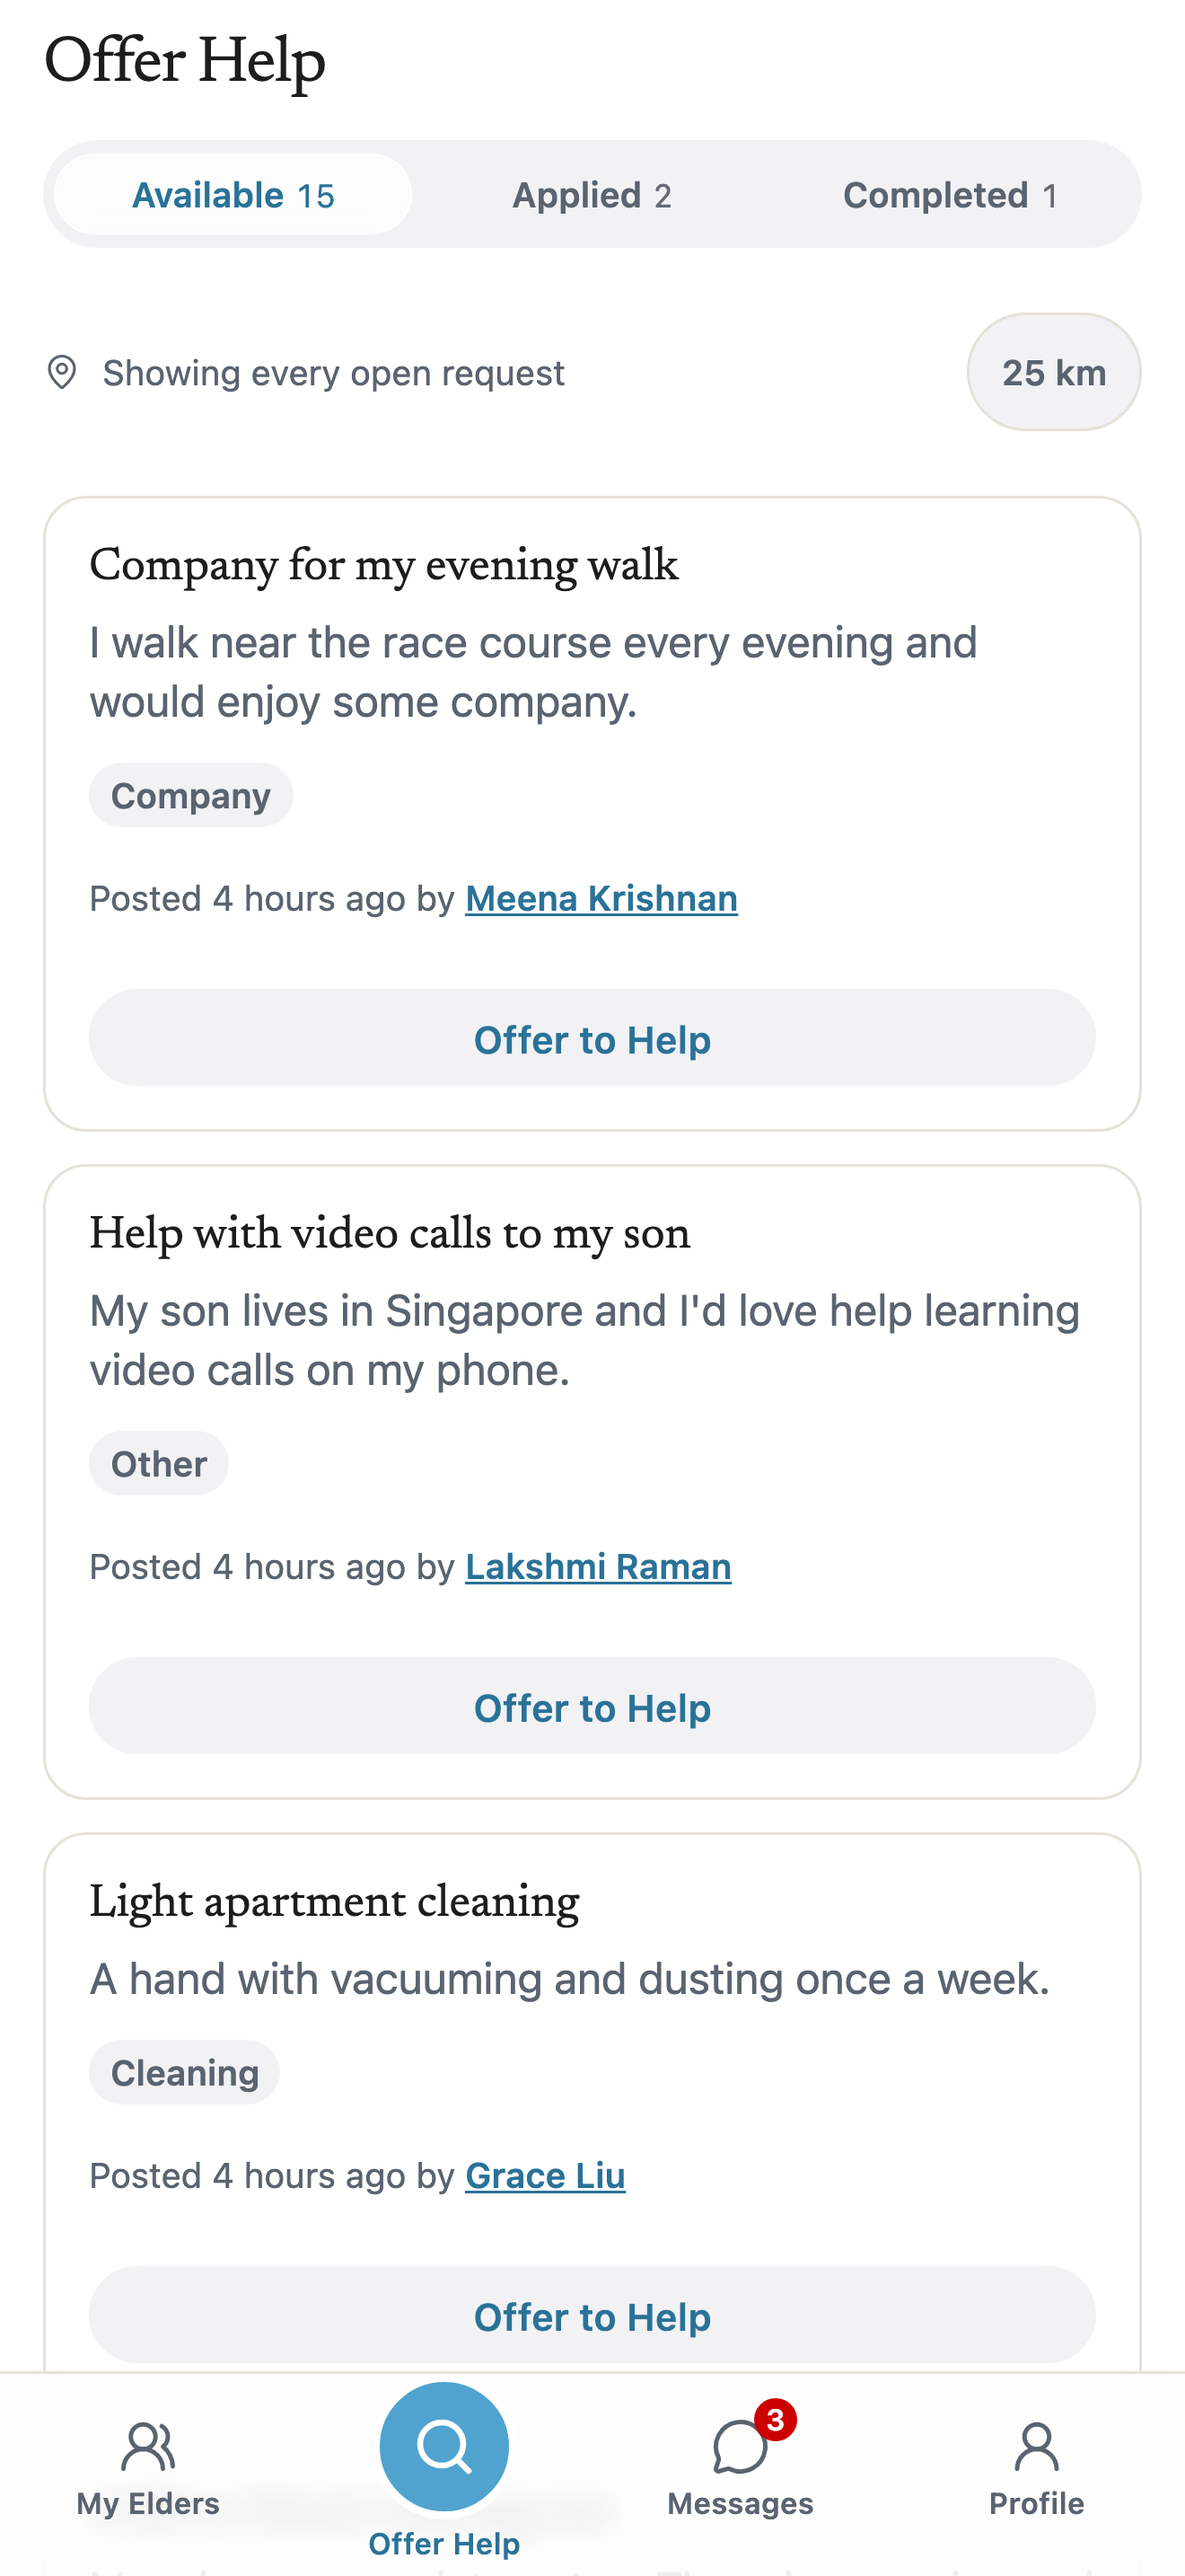
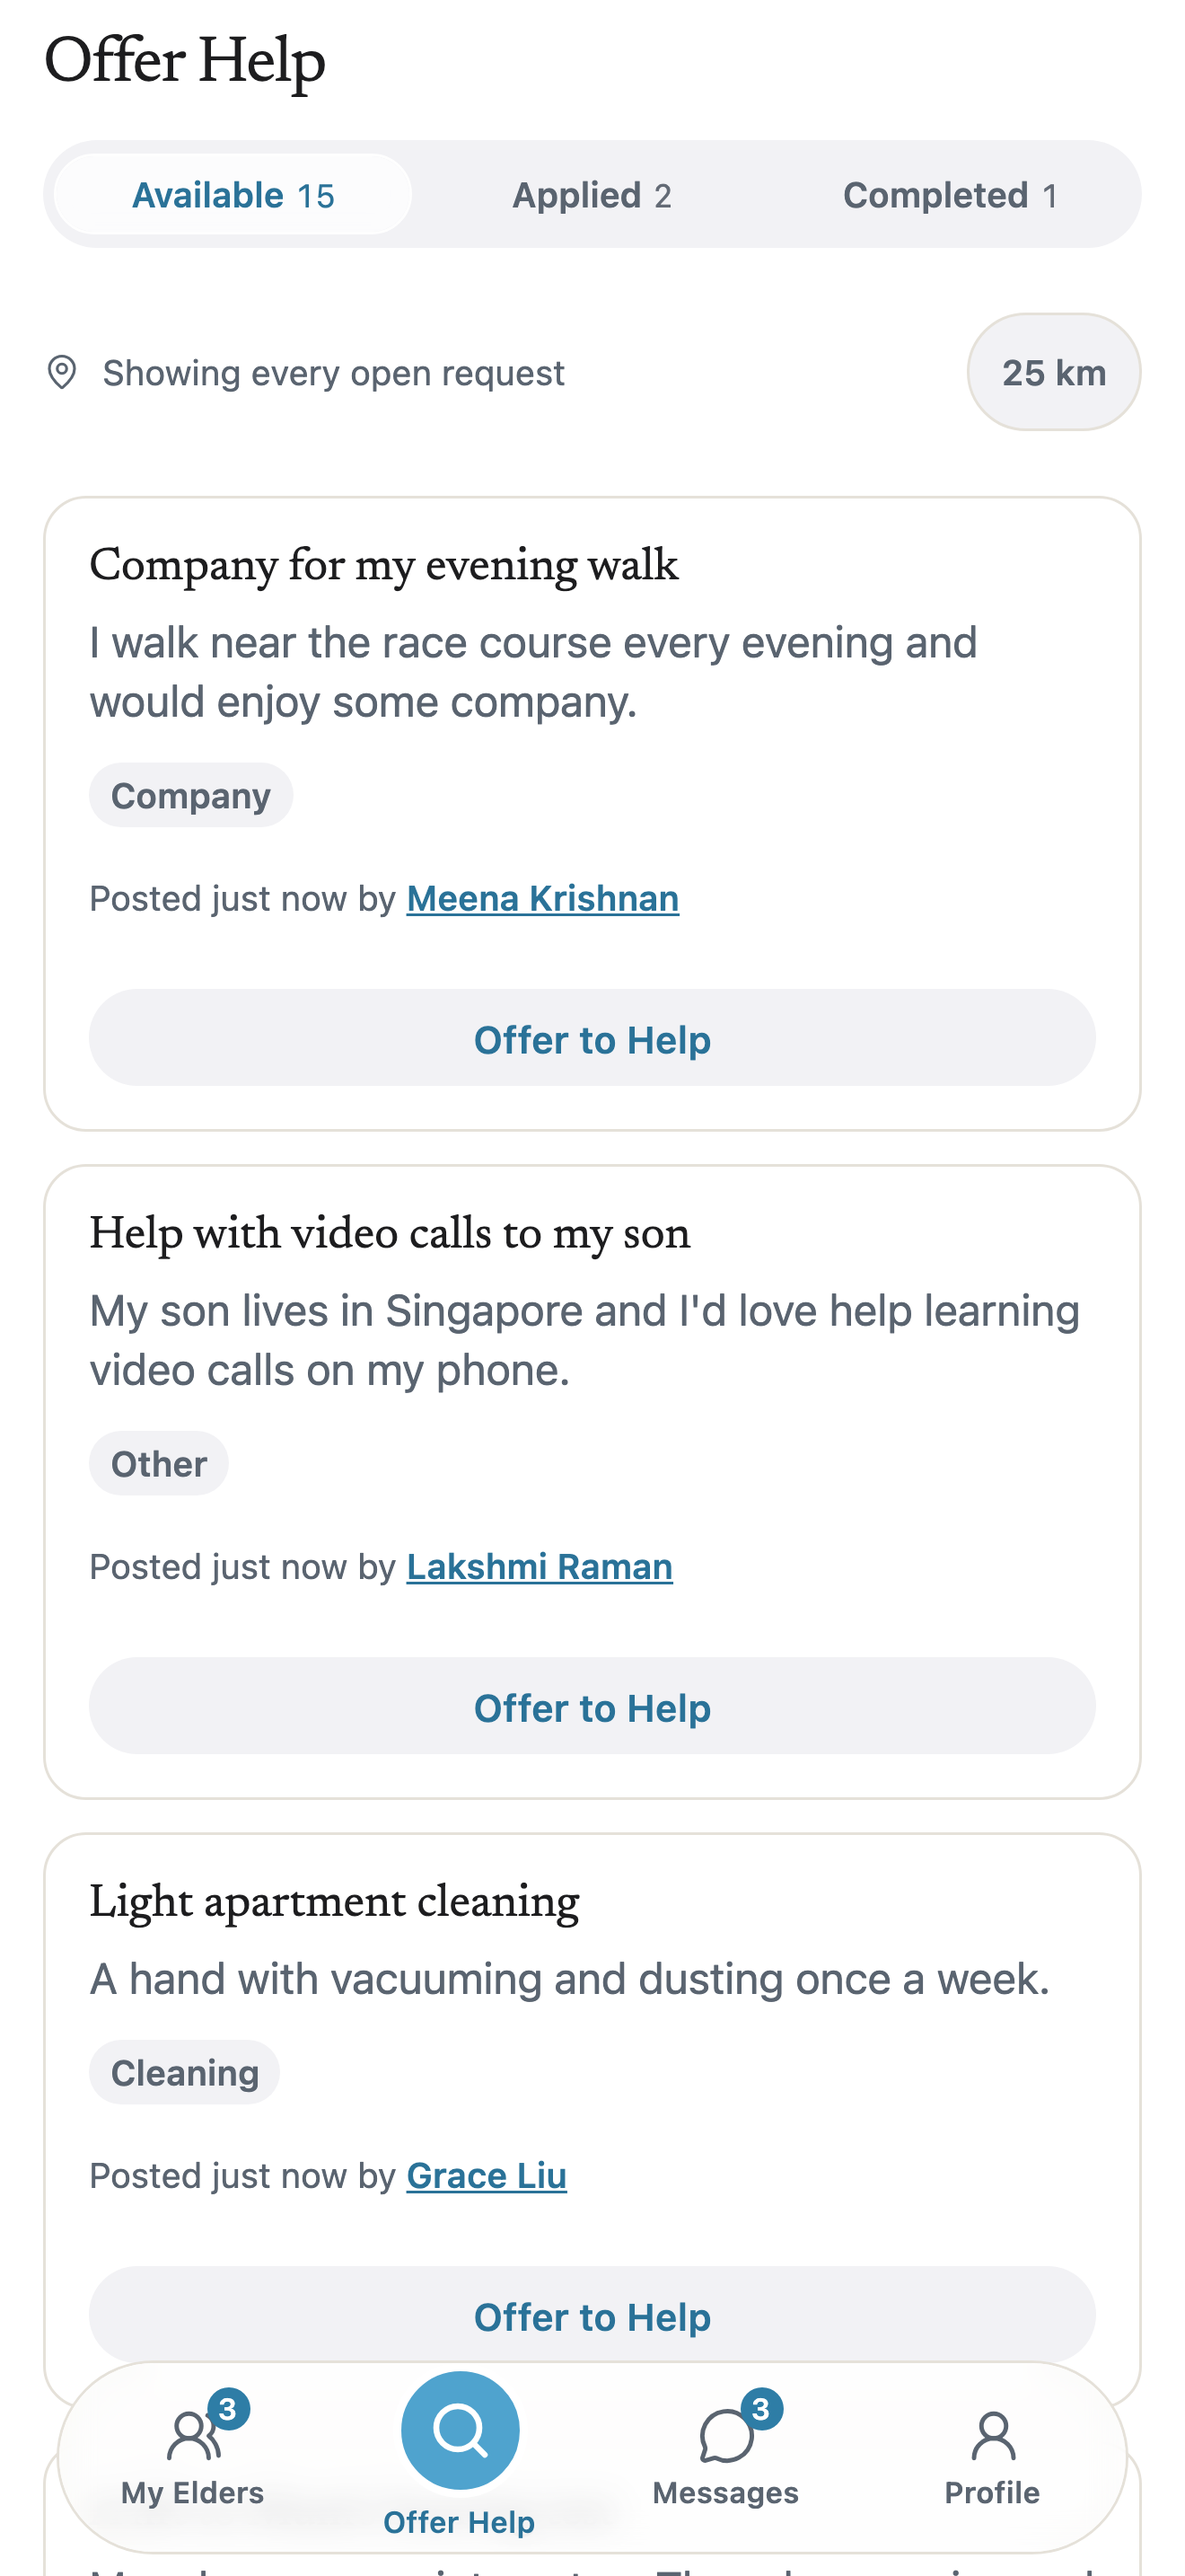
fix: [APS-03] - Re-capture the helper and family screenshots
Three shots re-taken against the shipped build: Offer Help and Trust Score from
the helper seat, the parent card from the family seat.

Only Offer Help had moved. Its tab bar was still the flat one with a red
Messages badge and no My Elders count, and every request line read "Posted 4
hours ago" where the seeder now says "Posted just now". The old frame is in
superseded/2026-08-29-pre-appstore-recapture/.

Trust Score and the family parent card came back byte-identical, md5
76b42efc73b7f1288bfe5f972c32c69d and 852b7496a86acb936ffc80f1395a2f75. Both are
pushed screens with a back arrow and no tab bar, so the tab-bar work never
reached them. Nothing was replaced, so nothing was superseded.

The helper split is in frame: 7 for the trust stages, 5 from their review, 3
for the profile, with a per-person breakdown for all three people the helper
helps. The family card reads "Checked in today" and that state was already
true, so nothing was staged to make the caption honest.

Trust Score still carries the sentence APS-07 is going to change. That slot
needs re-shooting and re-baking when APS-07 lands.

diff --git a/docs/store/screenshot-inventory.md b/docs/store/screenshot-inventory.md
@@ -377,3 +377,47 @@ Proof the band is gone: the re-shot `raw-02-checkin.png` and the 2026-08-22
 frame both put their first ink on device row 91, and the pixel difference
 between them is bounded to `(287, 91, 1038, 241)`, the greeting line and the
 date. The rest of the two frames is identical.
+
+
+### The helper and family shots, re-captured 2026-08-29 (APS-03)
+
+Same script, same pinned frame. Two of the three came back byte-identical to
+what was already on disk, which is a result and not churn: those frames were
+already the shipped UI.
+
+| File | Seat | Frame | Alpha | Bytes | Result |
+|---|---|---|---|---|---|
+| `raw-10-helper-offer-help.png` | helper | 1320 x 2868 | no | 281,338 | Replaced. The old frame carried the flat tab bar with a red Messages badge and no My Elders count. |
+| `raw-14-helper-trust-score.png` | helper | 1320 x 2868 | no | 319,857 | Byte-identical, md5 `76b42efc73b7f1288bfe5f972c32c69d`. Nothing superseded. |
+| `raw-16-family-parent-checked-in.png` | family | 1320 x 2868 | no | 266,767 | Byte-identical, md5 `852b7496a86acb936ffc80f1395a2f75`. Nothing superseded. |
+
+`raw-10` changed from device row 983 down: every request line moved from
+"Posted 4 hours ago by" to "Posted just now by" as the seeder reran, and the
+tab bar became the floating capsule with blue count badges. The screens behind
+`raw-14` and `raw-16` are pushed screens with a back arrow and no tab bar, so
+the tab-bar work never touched them.
+
+**The helper split is in frame.** `raw-14` reads "Each person you help can earn
+you up to 15 points: 7 for growing trust together, 5 from their review, and 3
+for your profile", then a per-person breakdown for each of the three people the
+helper helps: Grace Liu 15/15 with 7/7 trust stages, 5/5 review, 3/3 profile;
+David Chen 7/15 with 4/7, 0/5, 3/3; Rose Martin 4/15 with 1/7, 0/5, 3/3.
+
+**The family frame says "Checked in today", and it was already true.** The
+elder's own check-in screen read "Checked in for today, 7 days in a row" before
+any capture ran, so nothing was staged to make the caption honest.
+
+**Reaching the family parent card.** The route is
+`/family/parent/<elderId>`, and the elder id moves with the seed, so it is
+reached by walking there:
+`--route /home --wait "Margaret" --tap "Margaret" --tap "See Margaret"`. The
+parent row is a collapsible LinkRow, so the first tap opens it and the second
+takes the "See Margaret" chip inside
+(`src/components/family/FamilyHomePanel.jsx`). Tapping the name alone only
+expands the row, and a capture taken there is the family home, not the parent
+card.
+
+**Left for the owner.** `raw-14` carries the line "Reviews are written on the
+Towinly website. You cannot leave one from the app yet." APS-07 is the story
+that settles that wording. Whichever pass closes APS-07 has to re-shoot
+`raw-14` and re-bake slot 4, or the listing ships the old sentence.

diff --git a/docs/store/screenshots/superseded/README.md b/docs/store/screenshots/superseded/README.md
@@ -85,3 +85,18 @@ nothing was superseded. See the 2026-08-29 section of
 `screenshot-inventory.md`.
 
 Nothing here is deleted.
+
+
+## The helper shot, superseded on 2026-08-29 (APS-03)
+
+`2026-08-29-pre-appstore-recapture/raw-10-helper-offer-help.png`, 275,978
+bytes. Its tab bar is the flat one with a hairline above it, a red Messages
+badge and no count on My Elders. The shipped build draws the floating capsule
+with blue badges and a My Elders count of 3.
+
+`raw-14-helper-trust-score.png` and `raw-16-family-parent-checked-in.png` were
+re-shot in the same pass and came back byte-identical, so they are not here.
+Both are pushed screens with a back arrow and no tab bar, which is why the
+tab-bar work never reached them.
+
+Nothing here is deleted.
